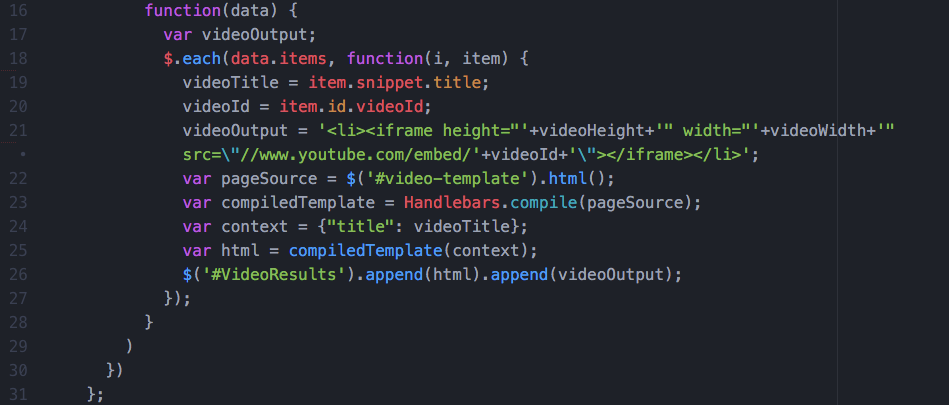
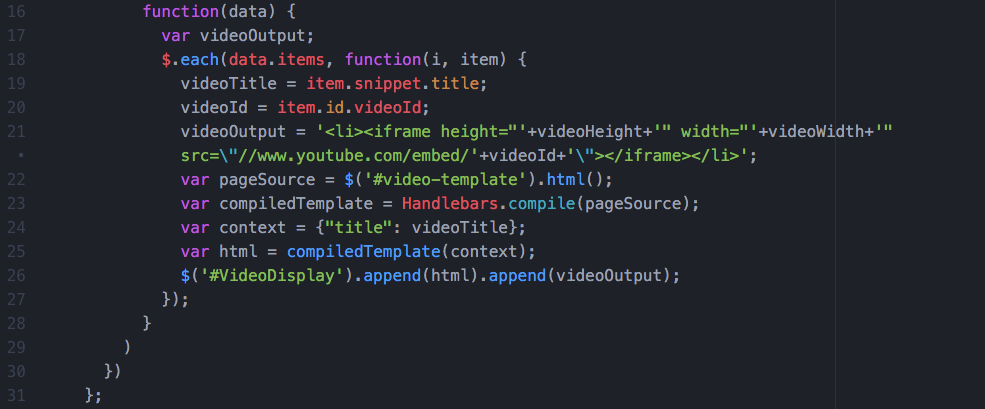
removed console.log and changed VideoResults to VideoDisplay

diff --git a/scripts/index.js b/scripts/index.js
@@ -23,7 +23,7 @@
             var compiledTemplate = Handlebars.compile(pageSource);
             var context = {"title": videoTitle};
             var html = compiledTemplate(context);
-            $('#VideoResults').append(html).append(videoOutput);
+            $('#VideoDisplay').append(html).append(videoOutput);
           });
         }
       )
@@ -50,7 +50,7 @@
             var compiledTemplate = Handlebars.compile(pageSource);
             var context = {"title": videoTitle};
             var html = compiledTemplate(context);
-            $('#VideoResults').append(html).append(videoOutput);
+            $('#VideoDisplay').append(html).append(videoOutput);
           });
         }
       )
@@ -70,7 +70,6 @@
         function(data) {
           var videoOutput;
           $.each(data.items, function(i, item) {
-            console.log(item);
             videoTitle = item.snippet.title;
             videoId = item.id.videoId;
             videoOutput = '<li><iframe height="'+videoHeight+'" width="'+videoWidth+'" src=\"//www.youtube.com/embed/'+videoId+'\"></iframe></li>';
@@ -78,7 +77,7 @@
             var compiledTemplate = Handlebars.compile(pageSource);
             var context = {"title": videoTitle};
             var html = compiledTemplate(context);
-            $('#VideoResults').append(html).append(videoOutput);
+            $('#VideoDisplay').append(html).append(videoOutput);
           });
         }
       )
@@ -98,7 +97,6 @@
         function(data) {
           var videoOutput;
           $.each(data.items, function(i, item) {
-            console.log(item);
             videoTitle = item.snippet.title;
             videoId = item.id.videoId;
             videoOutput = '<li><iframe height="'+videoHeight+'" width="'+videoWidth+'" src=\"//www.youtube.com/embed/'+videoId+'\"></iframe></li>';
@@ -106,7 +104,7 @@
             var compiledTemplate = Handlebars.compile(pageSource);
             var context = {"title": videoTitle};
             var html = compiledTemplate(context);
-            $('#VideoResults').append(html).append(videoOutput);
+            $('#VideoDisplay').append(html).append(videoOutput);
           });
         }
       )
@@ -133,7 +131,7 @@
             var compiledTemplate = Handlebars.compile(pageSource);
             var context = {"title": videoTitle};
             var html = compiledTemplate(context);
-            $('#VideoResults').append(html).append(videoOutput);
+            $('#VideoDisplay').append(html).append(videoOutput);
           });
         }
       )
@@ -160,7 +158,7 @@
             var compiledTemplate = Handlebars.compile(pageSource);
             var context = {"title": videoTitle};
             var html = compiledTemplate(context);
-            $('#VideoResults').append(html).append(videoOutput);
+            $('#VideoDisplay').append(html).append(videoOutput);
           });
         }
       )
@@ -187,7 +185,7 @@
             var compiledTemplate = Handlebars.compile(pageSource);
             var context = {"title": videoTitle};
             var html = compiledTemplate(context);
-            $('#VideoResults').append(html).append(videoOutput);
+            $('#VideoDisplay').append(html).append(videoOutput);
           });
         }
       )
@@ -195,7 +193,7 @@
   };
 
  function emptyResults() {
-   $('#VideoResults').empty();
+   $('#VideoDisplay').empty();
  }
   module.videoList = videoList;
 })(window);
